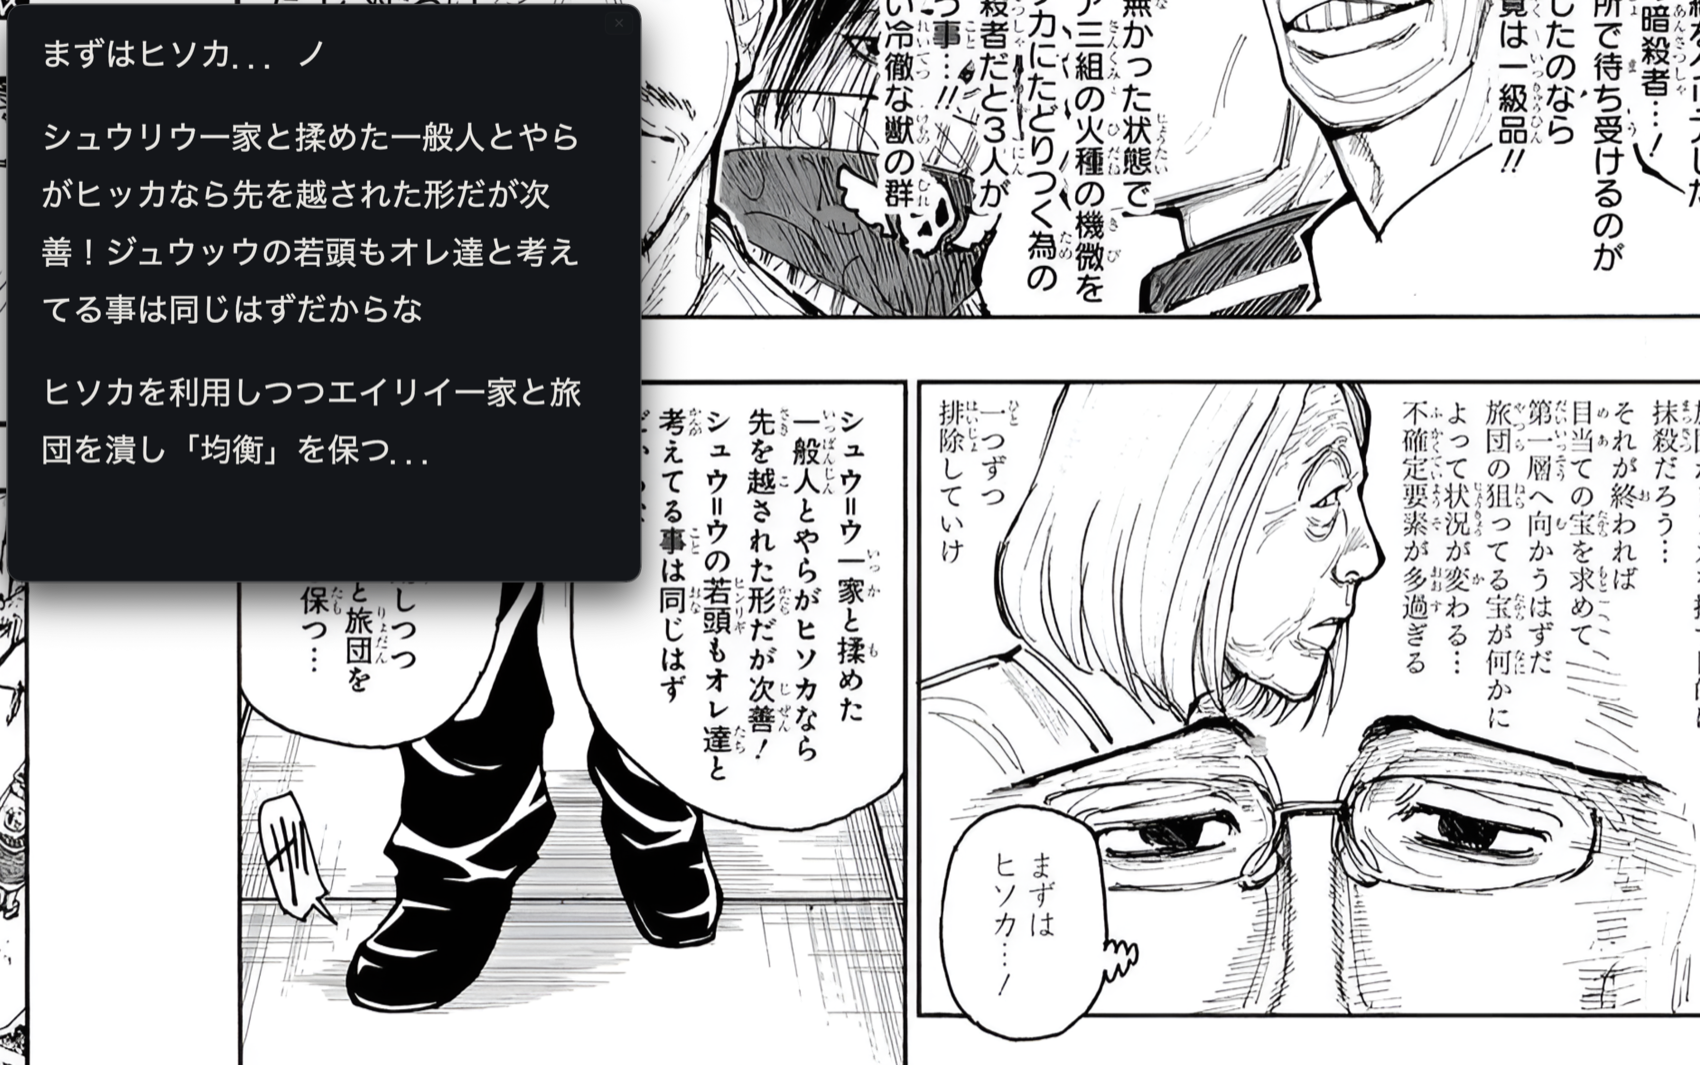
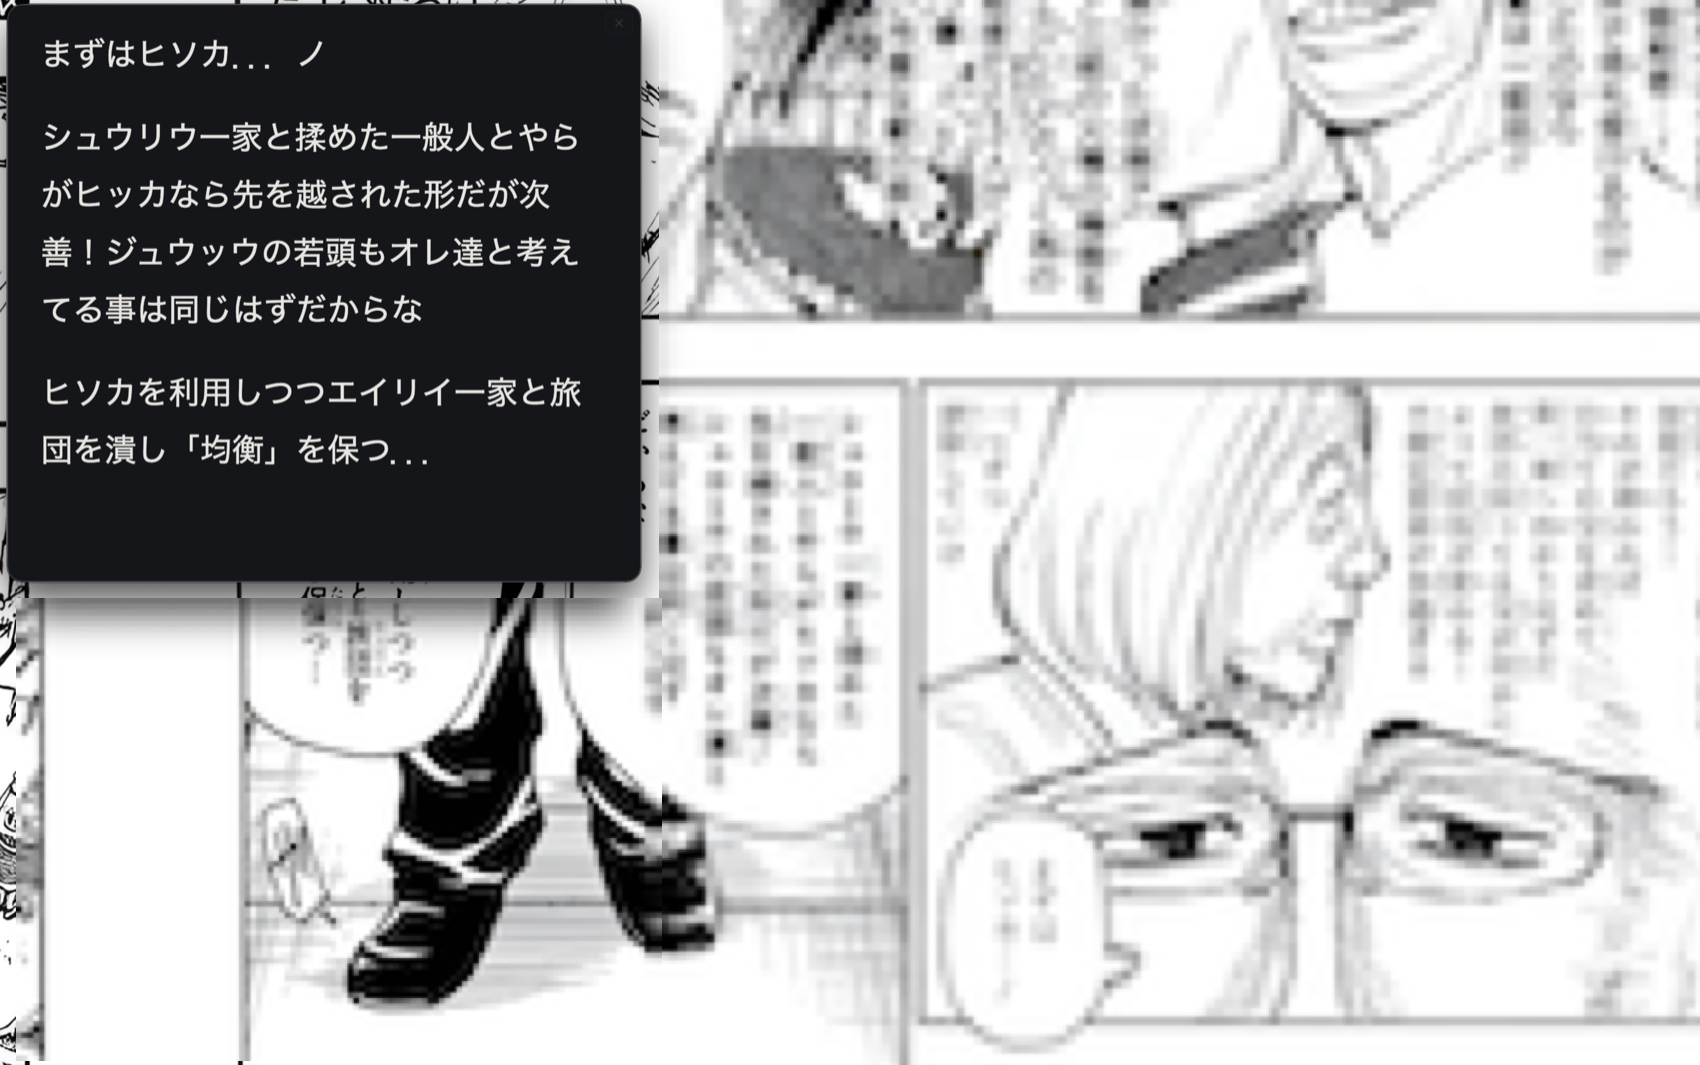
update images

Changed region(s): [[0.0, 0.3408, 1.0, 1.0], [0.3741, 0.0, 1.0, 0.3099], [0.9976, 0.4958, 1.0, 0.6817]]

diff --git a/README.md b/README.md
@@ -8,6 +8,8 @@ Made for reading manga, visual novels, or games in fullscreen: whenever new Japa
 
 <img src="screenshot-yomitan.png" alt="Looking up a word with the built-in Yomitan pop-up dictionary" width="700">
 
+*The manga in the screenshots is blurred to avoid reproducing copyrighted artwork — the overlay and the Yomitan popup are what's being demonstrated.*
+
 The reading pane is an Electron-embedded adaptation of [tsukami-texthooker](https://github.com/onweeks/tsukami-texthooker) — use that if you want the standalone browser version.
 
 ## How it works
